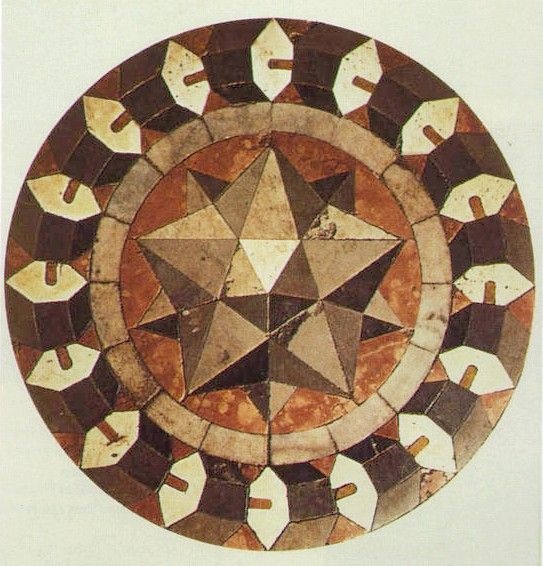
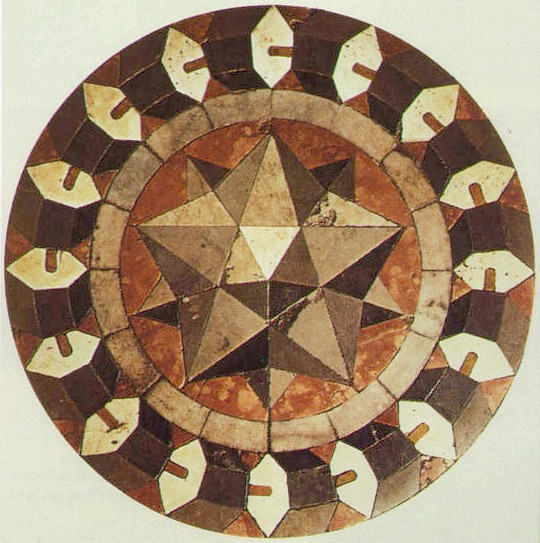
Add 404 and 500 routes and tempates.
Added routes and templates.
Added images and defined css styles.
Cropped images for the other 'page' templates to square dimensions.

diff --git a/app/templates/500.html b/app/templates/500.html
@@ -1,0 +1,31 @@
+{% extends "base.html" %}
+
+
+{% block header %}
+<body class="contact">
+	<header class="error">
+		<div class="container">	
+			<div class="row">
+				<nav class="page twelve columns">
+					<ul class="page">
+						<li><a href="{{ url_for('index') }}" class ="page">About</a></li>
+					{% for page in pages %}
+						<li><a href="{{ url_for('page', name=page.name) }}" class ="page">{{ page.name }}</a></li>
+					{% endfor %}
+						<li><a href="{{ url_for('contact') }}" class ="page">Contact</a></li>
+					</ul>
+				</nav>
+			</div>
+			<div class="row">
+					<div class="ten offset-by-one columns">
+						<img src="{{ url_for('static', filename='img/500.jpg') }}" />
+					</div>
+			</div>
+			<div class="row">
+					<h2>500</h2>
+					<h4>We having some trouble on our end. Please try your request again or come back later.</h4>
+			</div>
+		</div>
+	</header>
+</body>
+{% endblock %}

diff --git a/app/templates/404.html b/app/templates/404.html
@@ -1,0 +1,31 @@
+{% extends "base.html" %}
+
+
+{% block header %}
+<body class="error">
+	<header class="error">
+		<div class="container">	
+			<div class="row">
+				<nav class="page twelve columns">
+					<ul class="page">
+						<li><a href="{{ url_for('index') }}" class ="page">About</a></li>
+					{% for page in pages %}
+						<li><a href="{{ url_for('page', name=page.name) }}" class ="page">{{ page.name }}</a></li>
+					{% endfor %}
+						<li><a href="{{ url_for('contact') }}" class ="page">Contact</a></li>
+					</ul>
+				</nav>
+			</div>
+			<div class="row">
+					<div class="ten offset-by-one columns">
+						<img src="{{ url_for('static', filename='img/404.jpg') }}" />
+					</div>
+			</div>
+			<div class="row">
+					<h2>404</h2>
+					<h4>We looked for that page, but it escapes us. Please select one of the pages above.</h4>
+			</div>
+		</div>
+	</header>
+</body>
+{% endblock %}

diff --git a/app/static/css/main.css b/app/static/css/main.css
@@ -11,7 +11,8 @@ body {
   background: #EEE6AB;
   position: relative;
 }
-body.contact {
+body.contact,
+body.error {
   background: #36393B;
   color: #EEE6AB;
 }
@@ -122,6 +123,13 @@ header.contact h2 {
   header.contact h2 {
     margin-top: 0.4em;
   }
+}
+
+header.error {
+  padding-top: 0;
+}
+header.error img {
+  margin: 3em 0 1.2em;
 }
 
 

diff --git a/app/views.py b/app/views.py
@@ -44,3 +44,15 @@ def contact():
 							form=form, 
 							pages=pages, 
 							social_icons=social_icons)
+
+
+@app.errorhandler(404)
+def not_found_error(error):
+	pages = Page.query.all()
+	return render_template('404.html', pages=pages), 404
+
+
+@app.errorhandler(500)
+def internal_error(error):
+	pages = Page.query.all()
+	return render_template('500.html', pages=pages), 500
